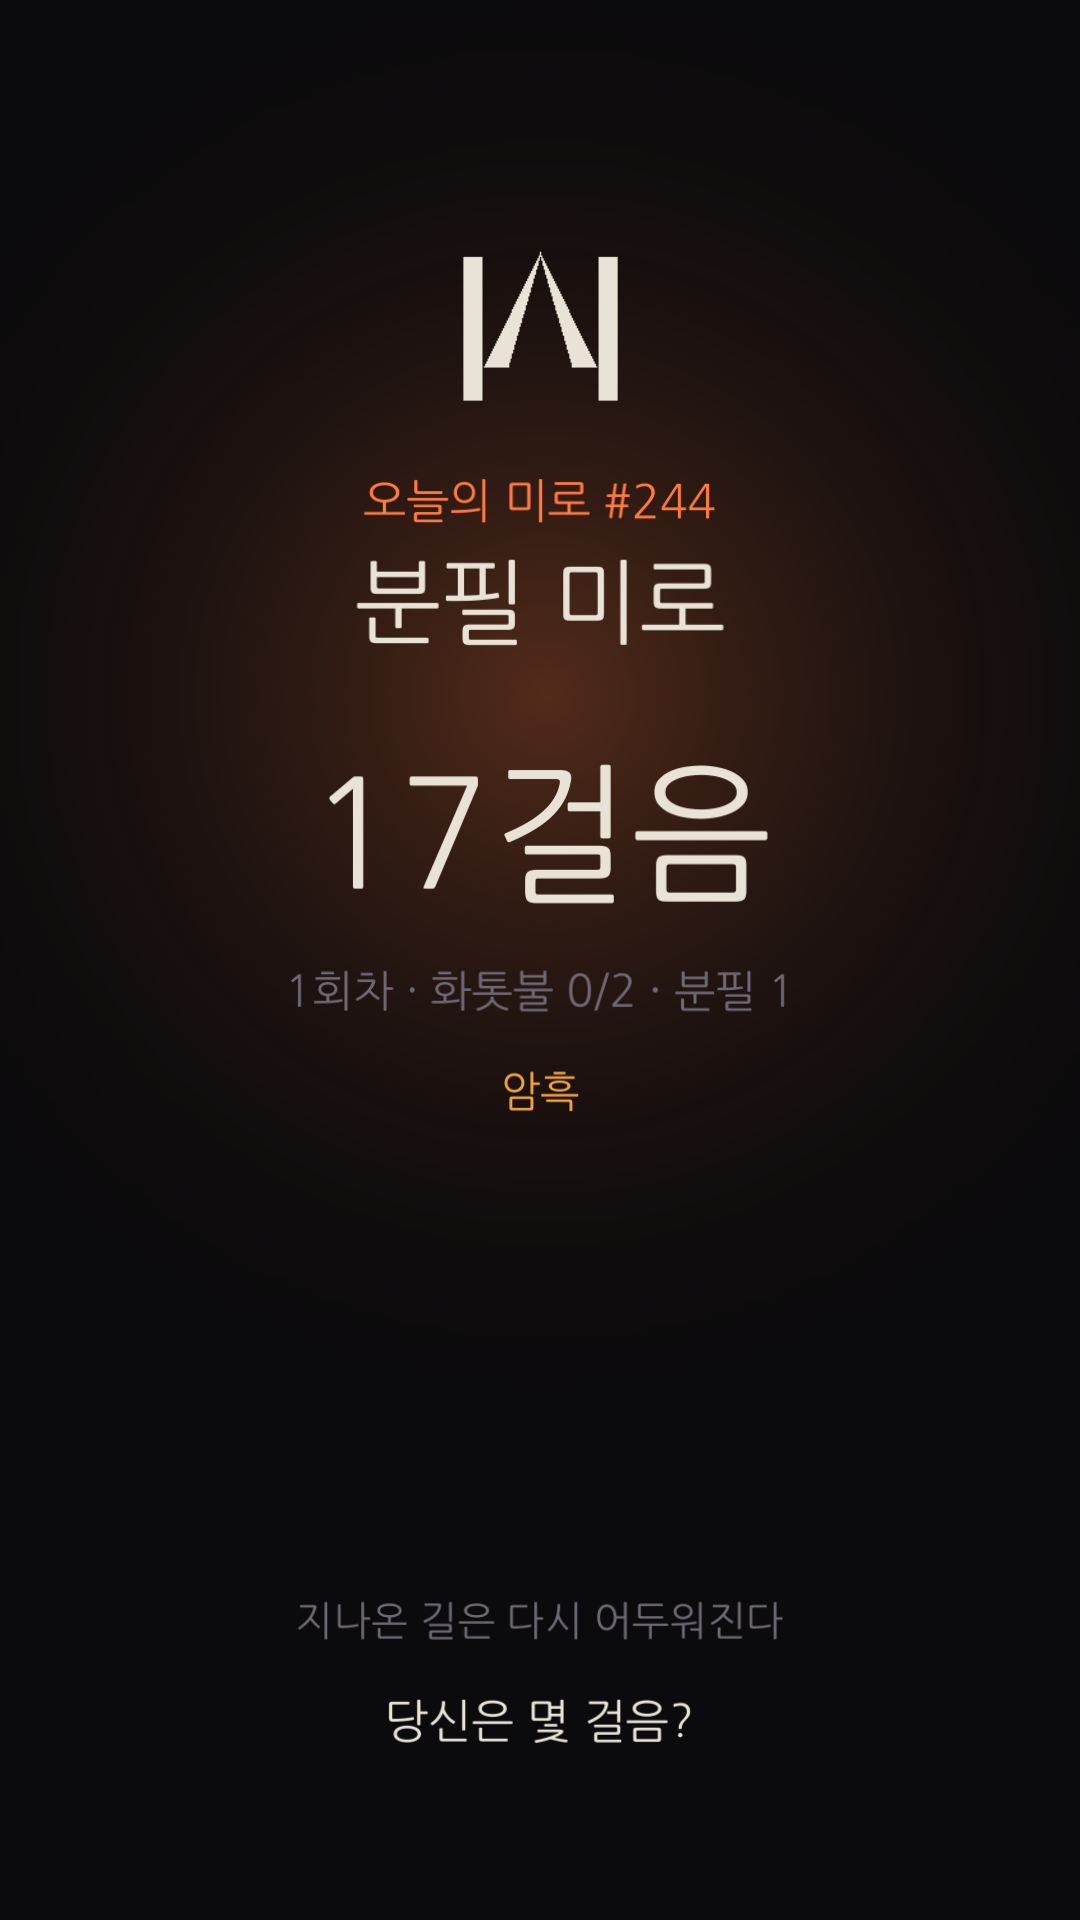
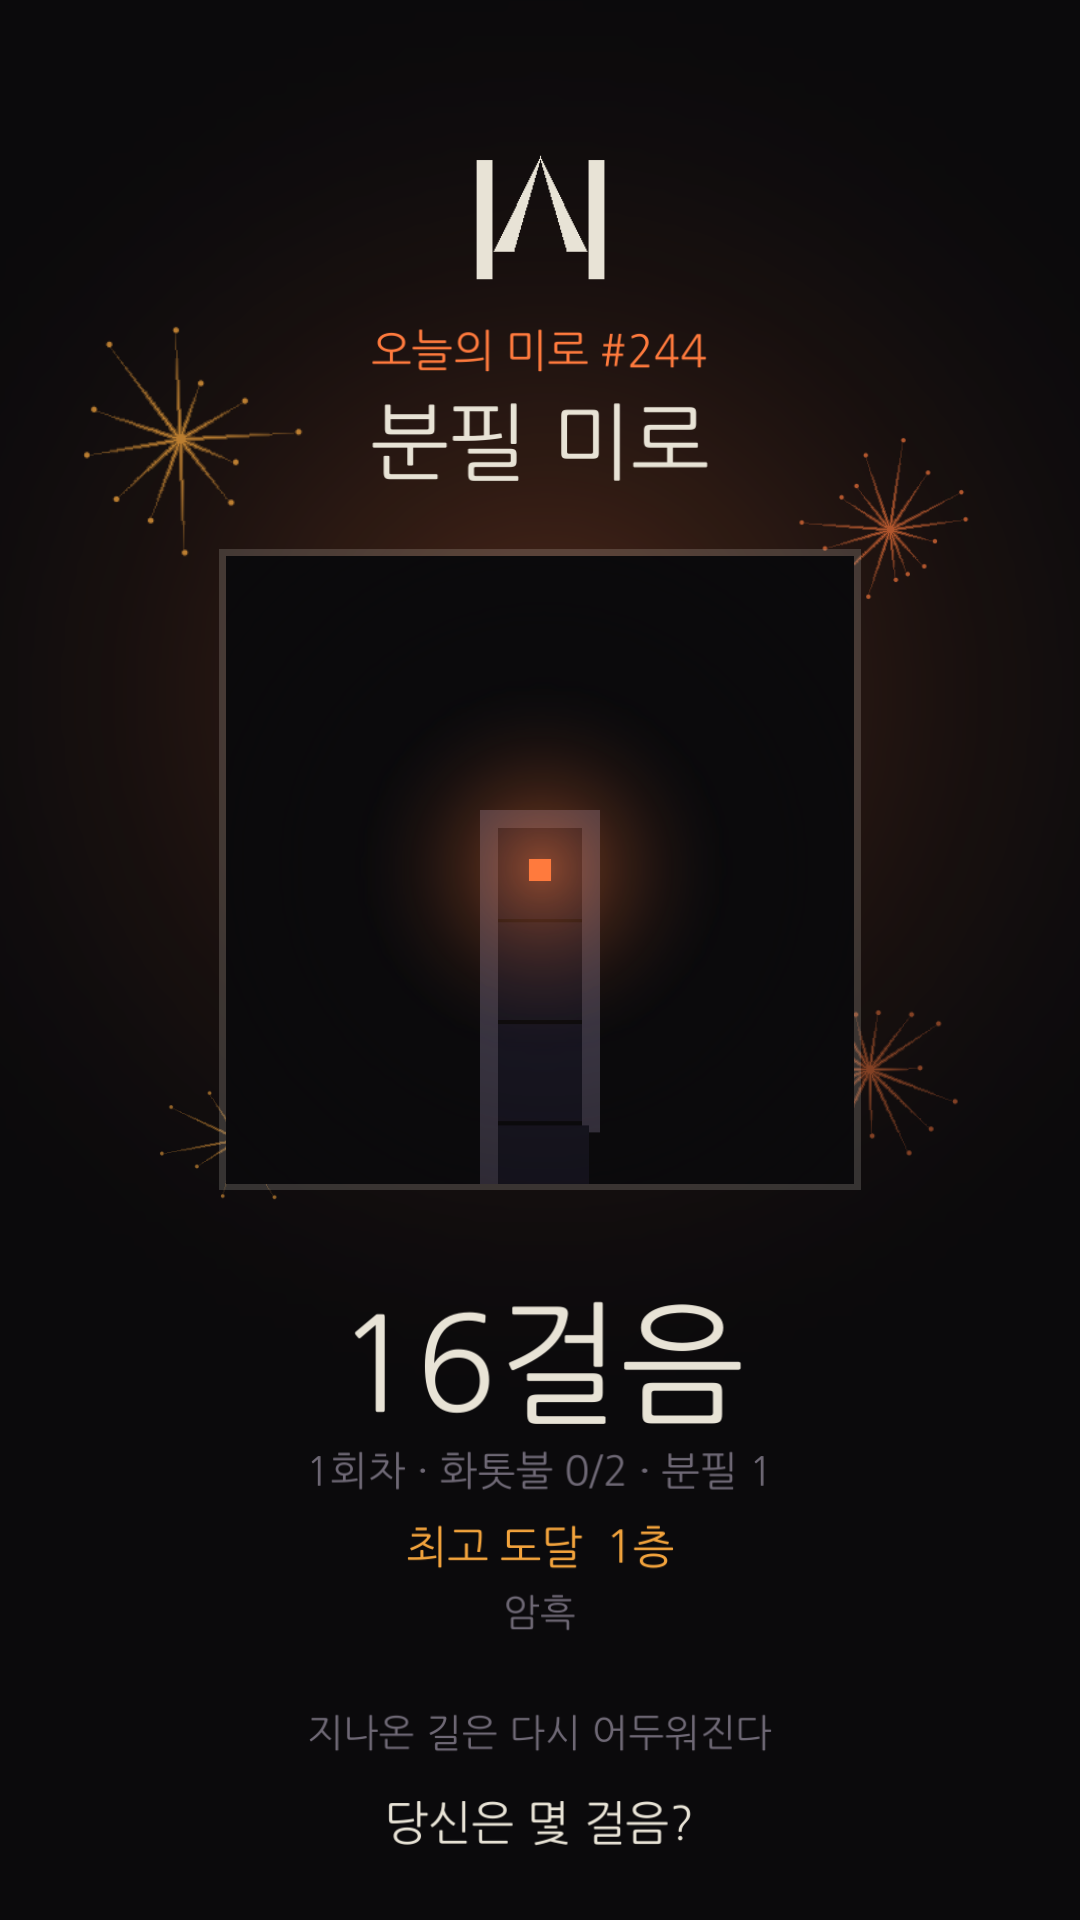
공유 카드에 미로 사진 · 폭죽 · 최고 층수
글자와 숫자만 있으면 성적표처럼 보이고, 무엇보다 어느 게임인지 보이지 않는다.
클리어한 순간의 미로를 찍어 카드 가운데에 넣고, 폭죽을 얹고, 최고 도달 층수를
같이 싣는다.

■ 촬영에서 걸린 것
게임 창은 세로로 길어 카메라 배율이 그에 맞춰져 있다. 정사각형 렌더 텍스처에
그대로 찍으면 열두 칸이 담겨 밝은 부분이 점처럼 작아진다. 찍는 동안만 배율을
고정했다. 카메라는 부드럽게 따라오느라 아직 도착 전일 수 있어, 찍기 직전에
플레이어 위치로 맞춘 뒤 되돌린다.

■ 배치에서 걸린 것
제목 라벨이 사진틀 안쪽 좌표에 있어 사진에 덮였고, 규칙 줄과 아래 문구가
겹쳤다. 세로 배치를 전부 중앙 기준으로 통일했다. 폭죽은 SetAsFirstSibling 로
보내면 배경보다 뒤로 가 사라진다 — 배경·후광 위, 글자 아래에 둔다.

Claude-Session: https://claude.ai/code/session_01MxE94i9AoxNfcNfFJrESHe

diff --git a/ChalkMaze/Assets/Scripts/Meta/ShareImage.cs b/ChalkMaze/Assets/Scripts/Meta/ShareImage.cs
@@ -14,7 +14,7 @@ namespace ChalkMaze
         /// 미로에서 멀리 떨어진 곳. 게임 카메라에 걸리지 않는다.
         static readonly Vector3 Far = new Vector3(100000f, 100000f, 0f);
 
-        public static Texture2D Build(RunState st, int dayIndex, bool daily)
+        public static Texture2D Build(RunState st, int dayIndex, bool daily, Texture2D shot = null)
         {
             var root = new GameObject("ShareCard");
             root.transform.position = Far;
@@ -28,7 +28,7 @@ namespace ChalkMaze
             crt.position = Far;
             canvasGo.transform.localScale = Vector3.one * 0.01f;
 
-            BuildCard(canvasGo.transform, st, dayIndex, daily);
+            BuildCard(canvasGo.transform, st, dayIndex, daily, shot);
 
             // 카드만 담는 카메라
             var camGo = new GameObject("cam", typeof(Camera));
@@ -60,7 +60,7 @@ namespace ChalkMaze
             return tex;
         }
 
-        static void BuildCard(Transform cv, RunState st, int dayIndex, bool daily)
+        static void BuildCard(Transform cv, RunState st, int dayIndex, bool daily, Texture2D shot)
         {
             // 어둠 + 횃불
             var bg = UIKit.Panel(cv, "bg", Palette.Void);
@@ -84,31 +84,73 @@ namespace ChalkMaze
             ci.color = Palette.Chalk;
             ci.preserveAspect = true;
             var crt2 = ci.rectTransform;
-            crt2.anchorMin = crt2.anchorMax = new Vector2(0.5f, 1f);
-            crt2.anchoredPosition = new Vector2(0, -330);
-            crt2.sizeDelta = new Vector2(230, 230);
+            crt2.anchorMin = crt2.anchorMax = new Vector2(0.5f, 0.5f);
+            crt2.anchoredPosition = new Vector2(0, 740);
+            crt2.sizeDelta = new Vector2(190, 190);
 
-            Label(cv, daily ? $"오늘의 미로 #{dayIndex}" : "분필 미로", 46, Palette.Ember, 1f, -500, 70);
-            Label(cv, "분필 미로", 92, Palette.Chalk, 1f, -600, 130);
+            Label(cv, daily ? $"오늘의 미로 #{dayIndex}" : $"{st.Cfg.Chapter} · {st.Level}층 돌파", 44, Palette.Ember, 0.5f, 610, 64);
+            Label(cv, "분필 미로", 84, Palette.Chalk, 0.5f, 520, 116);
+
+            // 클리어한 순간의 미로. 어느 게임인지 한눈에 보여야 공유가 힘을 얻는다.
+            if (shot != null)
+            {
+                var frame = UIKit.Panel(cv, "frame", new Color(Palette.Chalk.r, Palette.Chalk.g, Palette.Chalk.b, 0.18f));
+                var frt = frame.GetComponent<RectTransform>();
+                frt.anchorMin = frt.anchorMax = new Vector2(0.5f, 0.5f);
+                frt.anchoredPosition = new Vector2(0, 90);
+                frt.sizeDelta = new Vector2(640, 640);
+
+                var shotGo = new GameObject("shot", typeof(RectTransform), typeof(CanvasRenderer), typeof(RawImage));
+                shotGo.transform.SetParent(frame, false);
+                var ri = shotGo.GetComponent<RawImage>();
+                ri.texture = shot;
+                var srt = ri.rectTransform;
+                srt.anchorMin = Vector2.zero; srt.anchorMax = Vector2.one;
+                srt.offsetMin = new Vector2(6, 6); srt.offsetMax = new Vector2(-6, -6);
+            }
+
+            // 폭죽 — 해냈다는 신호. 숫자만 있으면 성적표처럼 보인다.
+            for (int i = 0; i < 4; i++)
+            {
+                var sp = new GameObject("spark", typeof(RectTransform), typeof(CanvasRenderer), typeof(Image));
+                sp.transform.SetParent(cv, false);
+                sp.transform.SetSiblingIndex(2);   // 배경·후광 위, 글자 아래
+                var si = sp.GetComponent<Image>();
+                si.sprite = ProcTex.Spark(dayIndex * 31 + i);
+                var col = i % 2 == 0 ? Palette.Fire : Palette.Ember;
+                si.color = new Color(col.r, col.g, col.b, 0.75f - i * 0.09f);
+                si.preserveAspect = true;
+                var rt = si.rectTransform;
+                rt.anchorMin = rt.anchorMax = new Vector2(0.5f, 0.5f);
+                float[] xs = { -360f, 350f, -300f, 330f };
+                float[] ys = { 520f, 430f, -180f, -110f };
+                float[] sz = { 260f, 200f, 170f, 220f };
+                rt.anchoredPosition = new Vector2(xs[i], ys[i]);
+                rt.sizeDelta = new Vector2(sz[i], sz[i]);
+            }
 
             // 성적
             string big = daily ? $"{st.Steps}걸음" : $"{st.Level}층";
-            Label(cv, big, 150, Palette.Chalk, 0.5f, 130, 200);
+            Label(cv, big, 132, Palette.Chalk, 0.5f, -400, 170);
 
             string sub = daily
                 ? $"{st.Runs}회차 · 화톳불 {st.FiresLit}/{st.Bonfires.Count} · 분필 {st.Marks.Count}"
                 : $"{st.Runs}회차 · 총 {st.Steps}걸음";
-            Label(cv, sub, 44, Palette.Ash, 0.5f, -30, 70);
+            Label(cv, sub, 40, Palette.Ash, 0.5f, -510, 60);
 
-            // 규칙이 있으면 알려 준다 — 같은 조건이라는 게 비교의 전제다
+            // 최고 도달 층수 — 오늘의 미로에서도 실력의 지표가 된다
+            int best = Mathf.Max(PlayerProfile.BestLevel, daily ? 0 : st.Level);
+            if (best > 0)
+                Label(cv, $"최고 도달  {best}층", 44, Palette.Fire, 0.5f, -586, 60);
+
             string mods = "";
             foreach (var m in ModInfo.Pool)
                 if (st.Cfg.Has(m)) mods += (mods.Length > 0 ? " · " : "") + ModInfo.Name(m);
             if (mods.Length > 0)
-                Label(cv, mods, 42, Palette.Fire, 0.5f, -130, 70);
+                Label(cv, mods, 38, Palette.Ash, 0.5f, -652, 54);
 
-            Label(cv, "지나온 길은 다시 어두워진다", 40, Palette.Ash, 0f, 300, 60);
-            Label(cv, "당신은 몇 걸음?", 46, Palette.Chalk, 0f, 200, 70);
+            Label(cv, "지나온 길은 다시 어두워진다", 38, Palette.Ash, 0.5f, -772, 56);
+            Label(cv, daily ? "당신은 몇 걸음?" : "당신은 몇 층까지?", 46, Palette.Chalk, 0.5f, -862, 66);
         }
 
         static void Label(Transform cv, string text, int size, Color c,

diff --git a/ChalkMaze/Assets/Scripts/GameController.cs b/ChalkMaze/Assets/Scripts/GameController.cs
@@ -332,9 +332,48 @@ namespace ChalkMaze
                                      OnPick = () => ShowIntro(PlayerProfile.Streak, "") });
         }
 
+        /// 클리어한 순간의 미로를 사진으로 담는다. 글자와 숫자만으로는
+        /// 어느 게임인지 보이지 않아 공유가 힘을 잃는다.
+        Texture2D CaptureMaze()
+        {
+            var cam = Rig != null ? Rig.GetComponent<Camera>() : Camera.main;
+            if (cam == null) return null;
+
+            const int W = 900, H = 900;
+            var rt = new RenderTexture(W, H, 24, RenderTextureFormat.ARGB32);
+            var prevTarget = cam.targetTexture;
+            var prevActive = RenderTexture.active;
+            float prevSize = cam.orthographicSize;
+
+            // 게임 창은 세로로 길어 배율이 그에 맞춰져 있다. 정사각형에 그대로 쓰면
+            // 열두 칸이 담겨 밝은 부분이 점처럼 작아진다.
+            cam.orthographicSize = 3.1f;
+            // 카메라는 부드럽게 따라오느라 아직 도착 전일 수 있다. 찍기 전에 맞춘다.
+            var prevPos = cam.transform.position;
+            if (Glyphs != null && Glyphs.PlayerT != null)
+                cam.transform.position = new Vector3(
+                    Glyphs.PlayerT.position.x, Glyphs.PlayerT.position.y, prevPos.z);
+            cam.targetTexture = rt;
+            cam.Render();
+            cam.transform.position = prevPos;
+            RenderTexture.active = rt;
+
+            var tex = new Texture2D(W, H, TextureFormat.RGB24, false);
+            tex.ReadPixels(new Rect(0, 0, W, H), 0, 0);
+            tex.Apply();
+
+            RenderTexture.active = prevActive;
+            cam.targetTexture = prevTarget;
+            cam.orthographicSize = prevSize;
+            rt.Release();
+            Destroy(rt);
+            return tex;
+        }
+
         void ShareResult()
         {
-            var img = ShareImage.Build(_st, PlayerProfile.TodayIndex, _st.IsDaily);
+            var shot = CaptureMaze();
+            var img = ShareImage.Build(_st, PlayerProfile.TodayIndex, _st.IsDaily, shot);
             ShareCard.ShareWithImage(ShareCard.Build(_st), img);
             if (_st.IsDaily) ShowDailyWin(); else ShowWin();
         }

diff --git a/ChalkMaze/Assets/Scripts/DebugShareShot.cs b/ChalkMaze/Assets/Scripts/DebugShareShot.cs
@@ -9,6 +9,25 @@ namespace ChalkMaze
     {
         public GameController GC;
 
+        Texture2D Shot()
+        {
+            var cam = Camera.main;
+            if (cam == null) return null;
+            const int S = 900;
+            var rt = new RenderTexture(S, S, 24, RenderTextureFormat.ARGB32);
+            var pt = cam.targetTexture; var pa = RenderTexture.active;
+            float ps = cam.orthographicSize; cam.orthographicSize = 3.1f;
+            var pp = cam.transform.position;
+            var pl = GameObject.Find("Player");
+            if (pl != null) cam.transform.position = new Vector3(pl.transform.position.x, pl.transform.position.y, pp.z);
+            cam.targetTexture = rt; cam.Render(); cam.transform.position = pp; RenderTexture.active = rt;
+            var tx = new Texture2D(S, S, TextureFormat.RGB24, false);
+            tx.ReadPixels(new Rect(0, 0, S, S), 0, 0); tx.Apply();
+            RenderTexture.active = pa; cam.targetTexture = pt; cam.orthographicSize = ps;
+            rt.Release(); Destroy(rt);
+            return tx;
+        }
+
         IEnumerator Start()
         {
             string dir = System.Environment.GetEnvironmentVariable("CM_SHARE_DIR");
@@ -22,14 +41,14 @@ namespace ChalkMaze
             st.ToggleMark(MarkKind.Arrow);
 
             yield return new WaitForEndOfFrame();
-            var tex = ShareImage.Build(st, PlayerProfile.TodayIndex, true);
+            var tex = ShareImage.Build(st, PlayerProfile.TodayIndex, true, Shot());
             System.IO.File.WriteAllBytes(System.IO.Path.Combine(dir, "share-daily.png"), tex.EncodeToPNG());
             Debug.Log("[SHARE] daily 저장");
 
             st.LoadLevel(12, new System.Random(7));
             for (int i = 0; i < 25; i++) { st.TryMove(Random.Range(0, 4)); yield return null; }
             yield return new WaitForEndOfFrame();
-            var t2 = ShareImage.Build(st, PlayerProfile.TodayIndex, false);
+            var t2 = ShareImage.Build(st, PlayerProfile.TodayIndex, false, Shot());
             System.IO.File.WriteAllBytes(System.IO.Path.Combine(dir, "share-level.png"), t2.EncodeToPNG());
             Debug.Log("[SHARE] level 저장");
 

diff --git a/ChalkMaze/Assets/Scripts/View/ProcTex.cs b/ChalkMaze/Assets/Scripts/View/ProcTex.cs
@@ -352,6 +352,44 @@ namespace ChalkMaze
             return Sprite.Create(t, new Rect(0, 0, W, H), new Vector2(0.5f, 0.5f), 100);
         }
 
+        /// 폭죽 — 한 점에서 뻗는 불꽃 갈래. 끝에 불티가 맺힌다.
+        public static Sprite Spark(int seed)
+        {
+            int N = 192;
+            var t = Blank(N);
+            float c = N / 2f;
+            var rng = new System.Random(seed);
+            int rays = 11 + rng.Next(5);
+
+            for (int i = 0; i < rays; i++)
+            {
+                float a = (float)(i * (2.0 * Mathf.PI / rays) + rng.NextDouble() * 0.25);
+                float len = c * (0.45f + (float)rng.NextDouble() * 0.5f);
+                float ex = c + Mathf.Cos(a) * len, ey = c + Mathf.Sin(a) * len;
+
+                // 안쪽은 진하고 바깥으로 갈수록 옅어지는 갈래
+                int steps = Mathf.CeilToInt(len);
+                for (int k = 0; k <= steps; k++)
+                {
+                    float u = k / (float)steps;
+                    float x = Mathf.Lerp(c, ex, u), y = Mathf.Lerp(c, ey, u);
+                    float w = Mathf.Lerp(2.2f, 0.6f, u);
+                    float al = Mathf.Lerp(1f, 0.15f, u * u);
+                    int r = Mathf.CeilToInt(w);
+                    for (int dy = -r; dy <= r; dy++)
+                    for (int dx = -r; dx <= r; dx++)
+                    {
+                        float d = Mathf.Sqrt(dx * dx + dy * dy);
+                        if (d <= w) Plot(t, (int)x + dx, (int)y + dy, al * (1f - d / (w + 0.5f)));
+                    }
+                }
+                // 끝의 불티
+                Disc(t, ex, ey, 2.6f, false, 0);
+            }
+            Disc(t, c, c, 4.5f, false, 0);
+            return Finish(t);
+        }
+
         /// 조이스틱 기준점을 나타내는 얇은 원
         public static Sprite Ring()
         {
